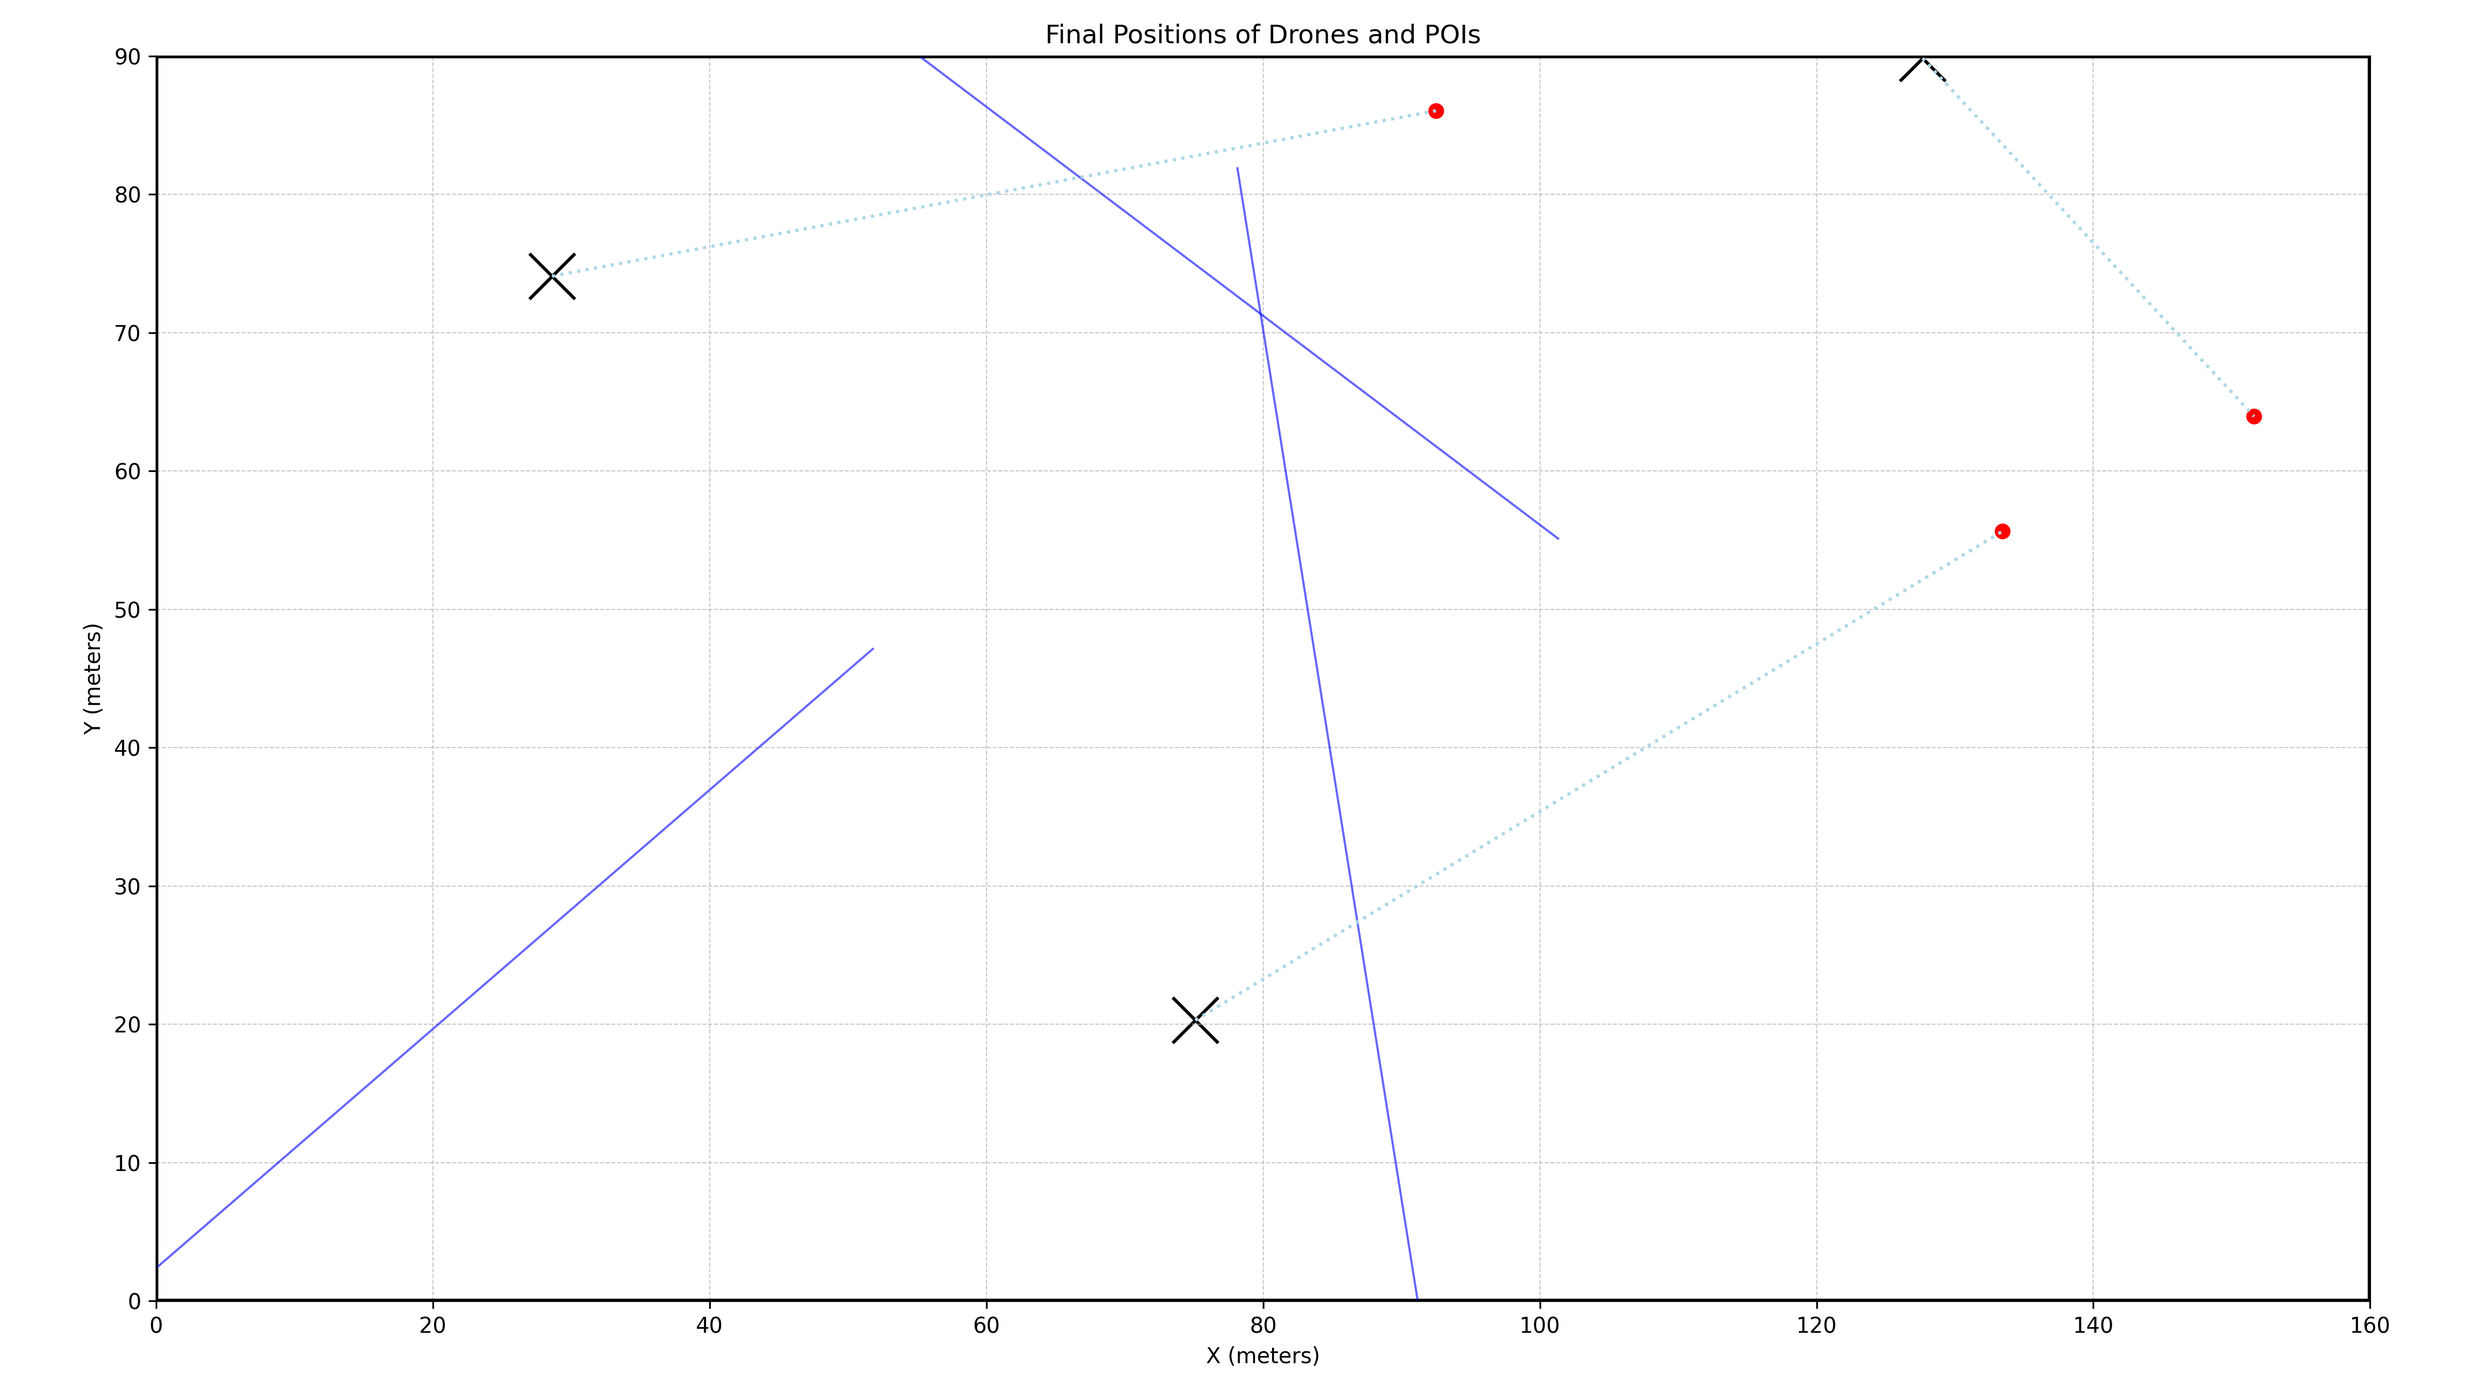
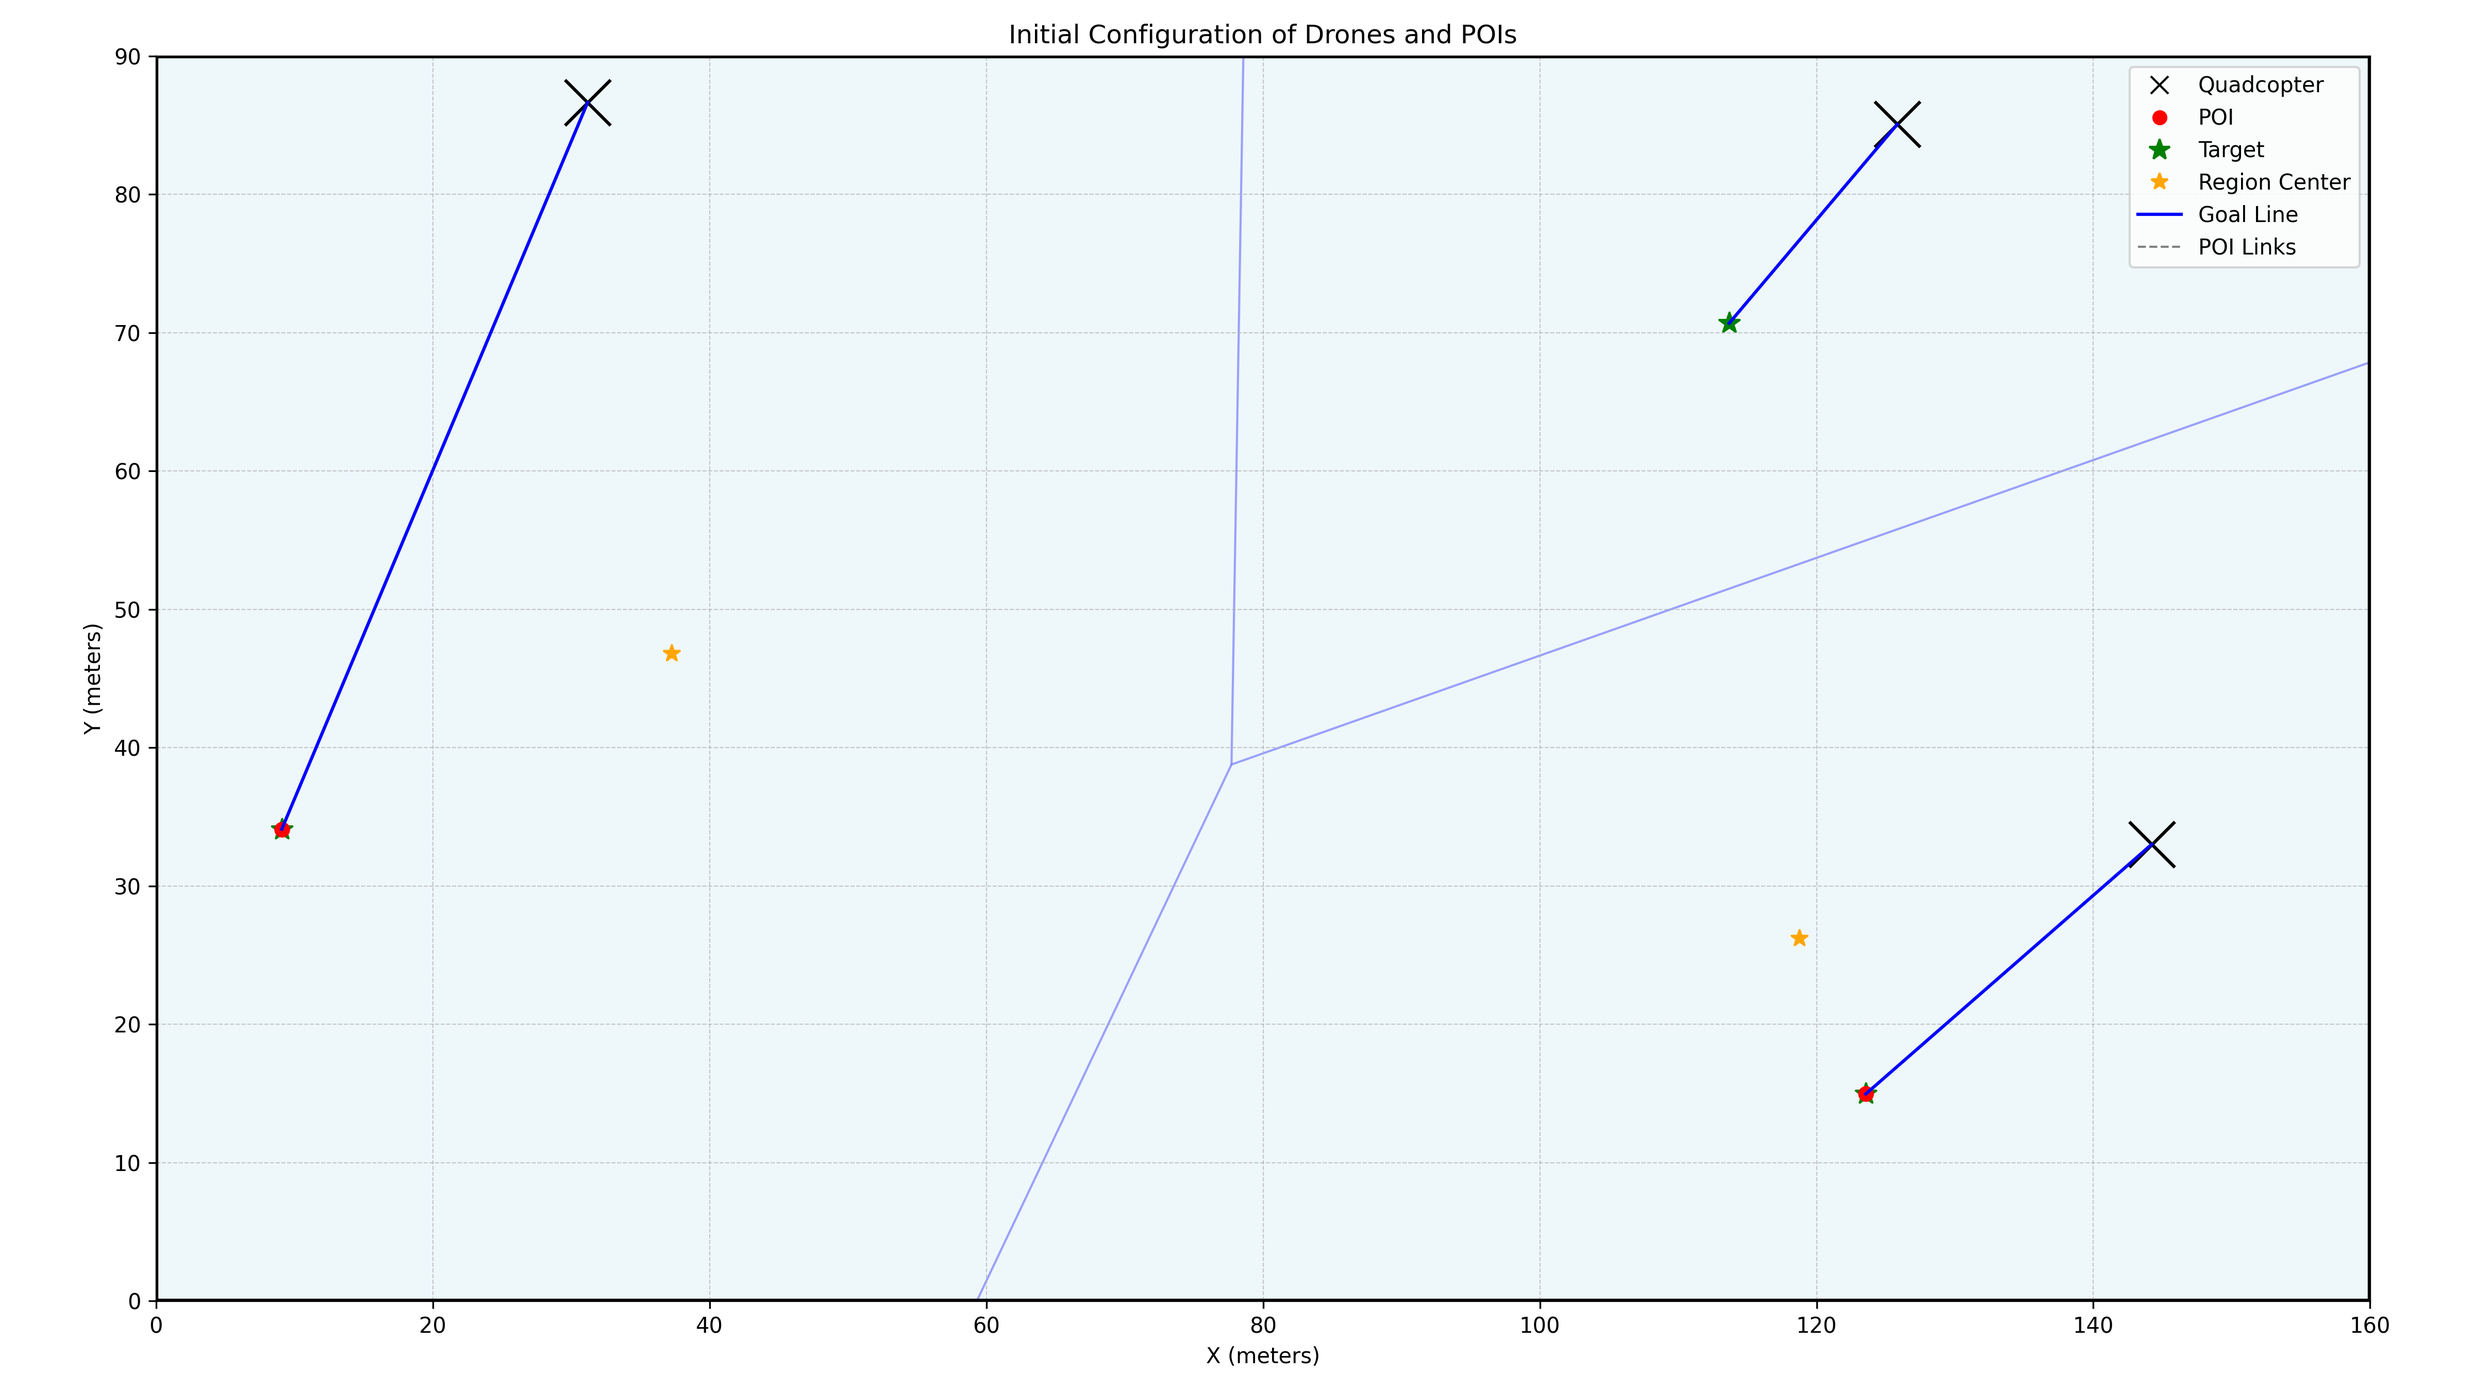
Shapes working, moving to correct targets

diff --git a/convergence-visualisation/convergence-visualisation.py b/convergence-visualisation/convergence-visualisation.py
@@ -1,16 +1,61 @@
-# voronoi_drones_plot.py
 import numpy as np
 import matplotlib.pyplot as plt
-from scipy.spatial import Voronoi, voronoi_plot_2d, QhullError
+import matplotlib.lines as mlines
+from scipy.spatial import Voronoi, QhullError
 from scipy.optimize import linear_sum_assignment
 from matplotlib.animation import FuncAnimation, PillowWriter
-from matplotlib.collections import LineCollection
+from matplotlib.collections import LineCollection, PatchCollection
+from matplotlib.patches import Polygon as MplPolygon
+from shapely.geometry import Polygon, Point, box
+from shapely.ops import unary_union, split
+import uuid
 
+def clipped_voronoi_polygons_2d(vor, bounds):
+    from shapely.geometry import LineString
+
+    # Create the bounding box polygon
+    min_x, min_y = 0, 0
+    max_x, max_y = bounds
+    bbox_poly = box(min_x, min_y, max_x, max_y)
+
+    regions = []
+    for i, point in enumerate(vor.points):
+        # Start with full bounding box
+        region = bbox_poly
+        # Clip by each bisector
+        for j, other in enumerate(vor.points):
+            if i == j:
+                continue
+            # Compute midpoint and direction of perpendicular bisector
+            mid = (point + other) / 2
+            direction = other - point
+            # Normal vector (perpendicular to direction)
+            normal = np.array([direction[1], -direction[0]])
+            normal = normal / np.linalg.norm(normal)
+            # Create a long line along the bisector
+            L = max(bounds) * 2
+            line_coords = [mid + normal * L, mid - normal * L]
+            bisector = LineString(line_coords)
+            # Split and keep the side containing the original point
+            pieces = split(region, bisector)
+            # Select the piece that contains the site
+            for poly in pieces.geoms:
+                if poly.contains(Point(point)) or poly.touches(Point(point)):
+                    region = poly
+                    break
+        # Final region clipped
+        regions.append(region)
+    return regions
 
 # --- Entities ---
 class Drone:
     def __init__(self, position):
         self.position = np.array(position)
+        self.id = str(uuid.uuid4())
+        self.target = None
+        self.region_polygon = None
+        self.center_point = None
+        self.targets_in_region = []
 
 class Quadcopter(Drone):
     def __init__(self, position):
@@ -30,11 +75,14 @@ class FixedWing(Drone):
 class PointOfInterest:
     def __init__(self, position):
         self.position = np.array(position)
+        self.id = str(uuid.uuid4())
 
 # --- Visualization ---
-def draw_scene(ax, drones, pois, bounds, assignments=None, show_voronoi=False):
+def draw_scene(ax, drones, pois, bounds,
+               assignments=None,
+               show_voronoi=False,
+               use_custom_voronoi=False):
     ax.cla()
-
     ax.set_xlabel("X (meters)")
     ax.set_ylabel("Y (meters)")
     ax.grid(True, linestyle='--', linewidth=0.5, alpha=0.7)
@@ -44,78 +92,109 @@ def draw_scene(ax, drones, pois, bounds, assignments=None, show_voronoi=False):
     ax.set_autoscale_on(False)
     ax.plot(*create_rectangle_marker(bounds), color='black', linewidth=2)
 
+    # Draw clipped Voronoi polygons
+    patches = []
+    for drone in drones:
+        if isinstance(drone, Quadcopter) and drone.region_polygon is not None:
+            coords = np.array(drone.region_polygon.exterior.coords)
+            patch = MplPolygon(coords, closed=True)
+            patches.append(patch)
+    if patches:
+        ax.add_collection(PatchCollection(
+            patches,
+            facecolor='lightblue',
+            edgecolor='blue',
+            linewidth=1,
+            alpha=0.2
+        ))
+
+    # Draw movement & indicator lines
+    for drone in drones:
+        if isinstance(drone, Quadcopter):
+            # if no target, fly to center_point (orange star)
+            start = drone.target if drone.target is not None else drone.center_point
+            if start is not None:
+                ax.plot(
+                    [drone.position[0], start[0]],
+                    [drone.position[1], start[1]],
+                    color='blue', linewidth=1.5
+                )
+            # if multiple POIs in region, dashed grey from target (green star) to each
+            if drone.target is not None and len(drone.targets_in_region) > 1:
+                for poi_pos in drone.targets_in_region:
+                    ax.plot(
+                        [drone.target[0], poi_pos[0]],
+                        [drone.target[1], poi_pos[1]],
+                        linestyle='--', color='gray', linewidth=1
+                    )
+
+    # Draw drones, centers, targets, POIs
     scale = min(bounds) / 20
-    drone_positions = [drone.position for drone in drones]
-
-    if len(drone_positions) >= 3:
-        arr = np.vstack(drone_positions)
-        if np.linalg.matrix_rank(arr - arr[0]) > 1:
-            plot_voronoi(ax, arr, bounds)
-
     for drone in drones:
         if isinstance(drone, Quadcopter):
             ax.scatter(*drone.position, marker='x', color='black', s=100 * scale)
-        elif isinstance(drone, FixedWing):
+            if drone.center_point is not None:
+                ax.scatter(*drone.center_point, marker='*', color='orange', s=60)
+            if drone.target is not None:
+                ax.scatter(*drone.target, marker='*', color='green', s=100)
+        else:  # FixedWing
             triangle = create_triangle_marker(drone.position, drone.heading, size=scale)
             ax.plot(*triangle, color='black')
-
-    if show_voronoi:
-        try:
-            if len(drone_positions) >= 3:
-                arr = np.vstack(drone_positions)
-                if np.linalg.matrix_rank(arr - arr[0]) > 1:
-                    vor = Voronoi(arr)
-                    voronoi_plot_2d(vor, ax=ax, show_vertices=False,
-                                    line_colors='gray', line_width=1, line_alpha=0.6, point_size=0)
-        except QhullError:
-            print("[WARNING] Voronoi computation failed — likely due to degenerate geometry.")
 
     for poi in pois:
         ax.scatter(*poi.position, color='red', s=40)
 
-    if assignments:
-        for i, j in assignments:
-            p1, p2 = drones[i].position, pois[j].position
-            ax.plot([p1[0], p2[0]], [p1[1], p2[1]], linestyle=':', color='lightblue', linewidth=1.5)
+    # Legend (applies to both static and animation)
+    drone_handle      = mlines.Line2D([], [], color='black', marker='x', linestyle='None', markersize=8, label='Quadcopter')
+    poi_handle        = mlines.Line2D([], [], color='red',   marker='o', linestyle='None', markersize=6, label='POI')
+    target_handle     = mlines.Line2D([], [], color='green', marker='*', linestyle='None', markersize=10, label='Target')
+    center_handle     = mlines.Line2D([], [], color='orange',marker='*', linestyle='None', markersize=8, label='Region Center')
+    goal_line_handle  = mlines.Line2D([], [], color='blue',  linewidth=1.5,           label='Goal Line')
+    link_line_handle  = mlines.Line2D([], [], color='gray',  linestyle='--', linewidth=1, label='POI Links')
+    ax.legend(
+        handles=[
+            drone_handle,
+            poi_handle,
+            target_handle,
+            center_handle,
+            goal_line_handle,
+            link_line_handle
+        ],
+        loc='upper right'
+    )
 
-    ax.set_title("Drones Moving to Assigned POIs")
+    ax.set_title("Drones Moving to POI Region Centers")
 
 # --- Drawing Utilities ---
 def draw_static(drones, pois, bounds, filename, assignments=None):
     fig, ax = plt.subplots(figsize=(16, 9))
     ax.set_xlim(0, bounds[0])
     ax.set_ylim(0, bounds[1])
-    draw_scene(ax, drones, pois, bounds, assignments)
-    ax.set_title("Final Positions of Drones and POIs")
+    draw_scene(ax, drones, pois, bounds, assignments, show_voronoi=True, use_custom_voronoi=False)
+    ax.set_title("Initial Configuration of Drones and POIs")
     plt.tight_layout()
     plt.savefig(filename, dpi=300)
     plt.close()
 
-def plot_voronoi(ax, points, bounds, extension=1e3):
-    try:
-        vor = Voronoi(points)
-        segments = []
-
-        center = points.mean(axis=0)
-        for (pointidx, simplex) in zip(vor.ridge_points, vor.ridge_vertices):
-            simplex = np.asarray(simplex)
-            if np.any(simplex < 0):
-                i, j = pointidx
-                t = points[j] - points[i]  # tangent
-                t = t / np.linalg.norm(t)
-                n = np.array([-t[1], t[0]])  # normal
-
-                midpoint = (points[i] + points[j]) / 2
-                far_point = midpoint + n * extension
-                segments.append([midpoint, far_point])
-            else:
-                p1, p2 = vor.vertices[simplex]
-                segments.append([p1, p2])
-
-        line_collection = LineCollection(segments, colors='blue', linewidths=1, alpha=0.6)
-        ax.add_collection(line_collection)
-    except QhullError:
-        print("[WARNING] Voronoi computation failed — likely due to degenerate geometry.")
+def plot_voronoi_polygons(ax, points, bounds):
+    bbox = box(0, 0, bounds[0], bounds[1])
+    vor = Voronoi(points)
+    patches = []
+    for region_index in vor.point_region:
+        region = vor.regions[region_index]
+        if -1 in region or len(region) == 0:
+            continue
+        poly_coords = vor.vertices[region]
+        try:
+            poly = Polygon(poly_coords).intersection(bbox)
+            if poly.is_valid and not poly.is_empty:
+                mpl_poly = MplPolygon(np.array(poly.exterior.coords), closed=True)
+                patches.append(mpl_poly)
+        except:
+            continue
+    if patches:
+        patch_collection = PatchCollection(patches, facecolor='none', edgecolor='blue', linewidth=1, alpha=0.6)
+        ax.add_collection(patch_collection)
 
 def create_rectangle_marker(bounds):
     x = [0, 0, bounds[0], bounds[0], 0]
@@ -135,31 +214,44 @@ def create_triangle_marker(position, heading, size=5):
     y = [front[1], left[1], right[1], front[1]]
     return x, y
 
-# --- Matching Logic ---
-def assignment_cost(drones, pois):
-    cost_matrix = np.zeros((len(drones), len(pois)))
-    for i, drone in enumerate(drones):
-        for j, poi in enumerate(pois):
-            cost_matrix[i, j] = np.linalg.norm(drone.position - poi.position)
-    return cost_matrix
+# --- Region Targets ---
+def assign_voronoi_targets(drones, pois, bounds):
+    points = np.vstack([drone.position for drone in drones])
+    vor = Voronoi(points)
+    bbox = box(0, 0, bounds[0], bounds[1])
 
-def compute_assignments(drones, pois):
-    cost = assignment_cost(drones, pois)
-    row_ind, col_ind = linear_sum_assignment(cost)
-    return list(zip(row_ind, col_ind))
+    clipped_regions = clipped_voronoi_polygons_2d(vor, bounds)
+    for i, drone in enumerate(drones):
+        drone.center_point = None
+        drone.region_polygon = None
+        drone.target = None
+
+        if i >= len(clipped_regions):
+            continue
+
+        poly = clipped_regions[i]
+        drone.region_polygon = poly
+        drone.center_point = np.array(poly.centroid.coords[0])
+
+        points_in_region = [poi.position for poi in pois if poly.covers(Point(poi.position))]
+        drone.targets_in_region = points_in_region
+        if points_in_region:
+            drone.target = np.mean(points_in_region, axis=0)
+        else:
+            # No POIs in region: move to center of the region polygon
+            drone.target = drone.center_point
 
 # --- Main Simulation ---
 def generate_random_position(bounds):
     return np.random.uniform(0, bounds[0]), np.random.uniform(0, bounds[1])
 
 def simulate(bounds, num_steps=50, step_size=1.0, gif_filename="voronoi_simulation.gif"):
-    num_quad, num_fw, num_pois = 3, 0, 3
+    num_quad, num_fw, num_pois = 3, 0, 2
     drones = [Quadcopter(generate_random_position(bounds)) for _ in range(num_quad)]
     pois = [PointOfInterest(generate_random_position(bounds)) for _ in range(num_pois)]
 
-    assignments = compute_assignments(drones, pois)
-
-    draw_static(drones, pois, bounds, "voronoi_initial.png", assignments)
+    assign_voronoi_targets(drones, pois, bounds)
+    draw_static(drones, pois, bounds, "voronoi_initial.png")
 
     fig, ax = plt.subplots(figsize=(16, 9))
     ax.set_xlim(0, bounds[0])
@@ -168,16 +260,19 @@ def simulate(bounds, num_steps=50, step_size=1.0, gif_filename="voronoi_simulati
     ax.set_autoscale_on(False)
 
     def update(frame):
-        for i, j in assignments:
-            if isinstance(drones[i], Quadcopter):
-                drones[i].move_towards(pois[j].position, step_size)
-        draw_scene(ax, drones, pois, bounds, assignments)
+        for drone in drones:
+            if isinstance(drone, Quadcopter):
+                # Always move towards the assigned target (region center if no POIs)
+                start = drone.target
+                if start is not None:
+                    drone.move_towards(start, step_size)
+        draw_scene(ax, drones, pois, bounds, show_voronoi=False, use_custom_voronoi=False)
 
     anim = FuncAnimation(fig, update, frames=num_steps, interval=200)
     anim.save(gif_filename, dpi=80, writer=PillowWriter(fps=5))
     plt.close()
 
-    draw_static(drones, pois, bounds, "voronoi_final.png", assignments)
+    draw_static(drones, pois, bounds, "voronoi_final.png")
 
 # --- Entry Point ---
 def main():
